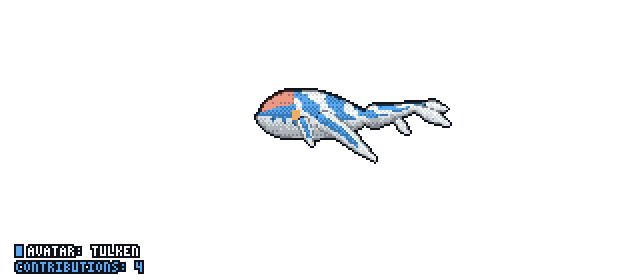
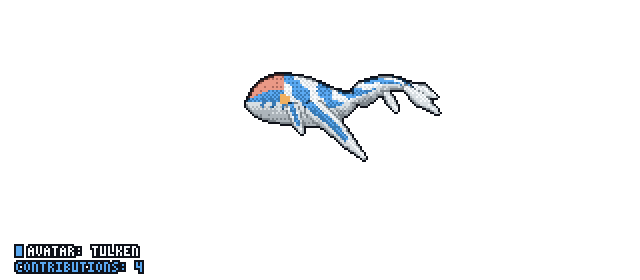
docs: regenerate all GIFs with v0.1.4 realistic S-wave body wiggle

Changed region(s): [[0.375, 0.2571, 0.7188, 0.6]]

diff --git a/tulkun/preview.html b/tulkun/preview.html
@@ -16,7 +16,7 @@
 </style>
 </head>
 <body>
-<header class="dark"><h1>@PramudithaN — Adult Male Bull (Hooked Hammer-Crest) (1873 commits)</h1></header>
+<header class="dark"><h1>@PramudithaN — Adult Male Bull (Hooked Hammer-Crest) (1070 commits)</h1></header>
 <section class="dark">
 <h2>GitHub Dark Mode</h2>
 <div class="images">
